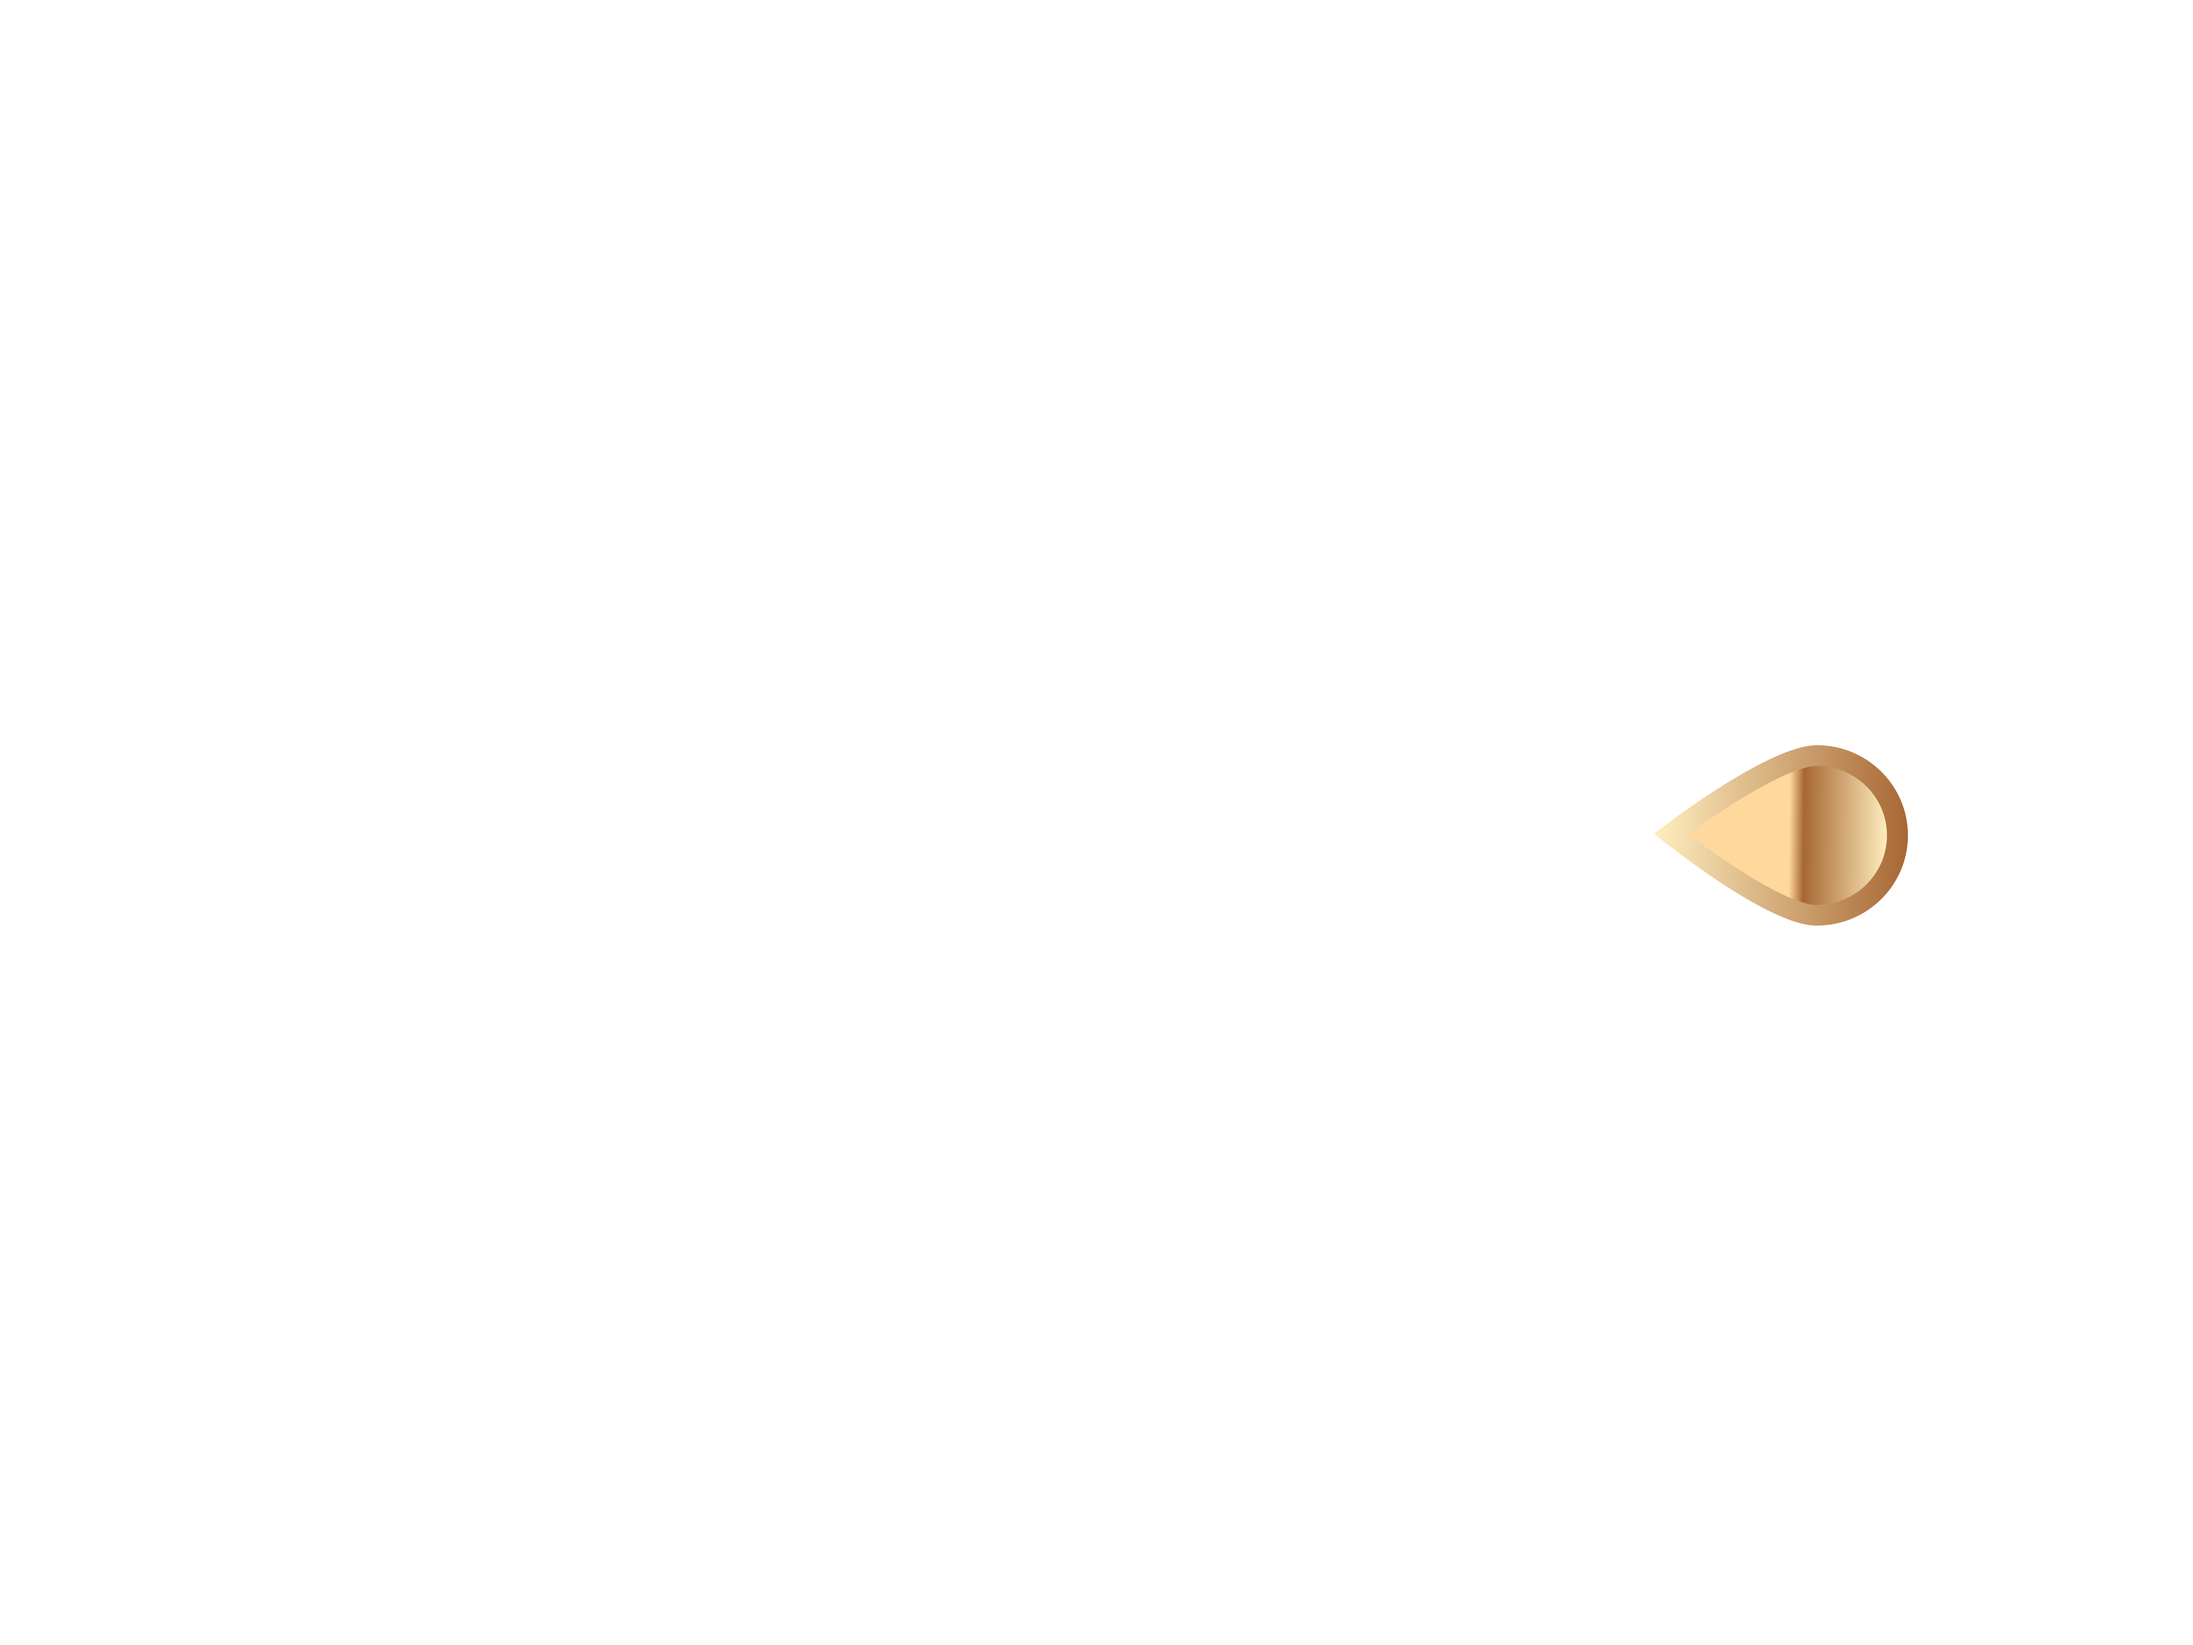
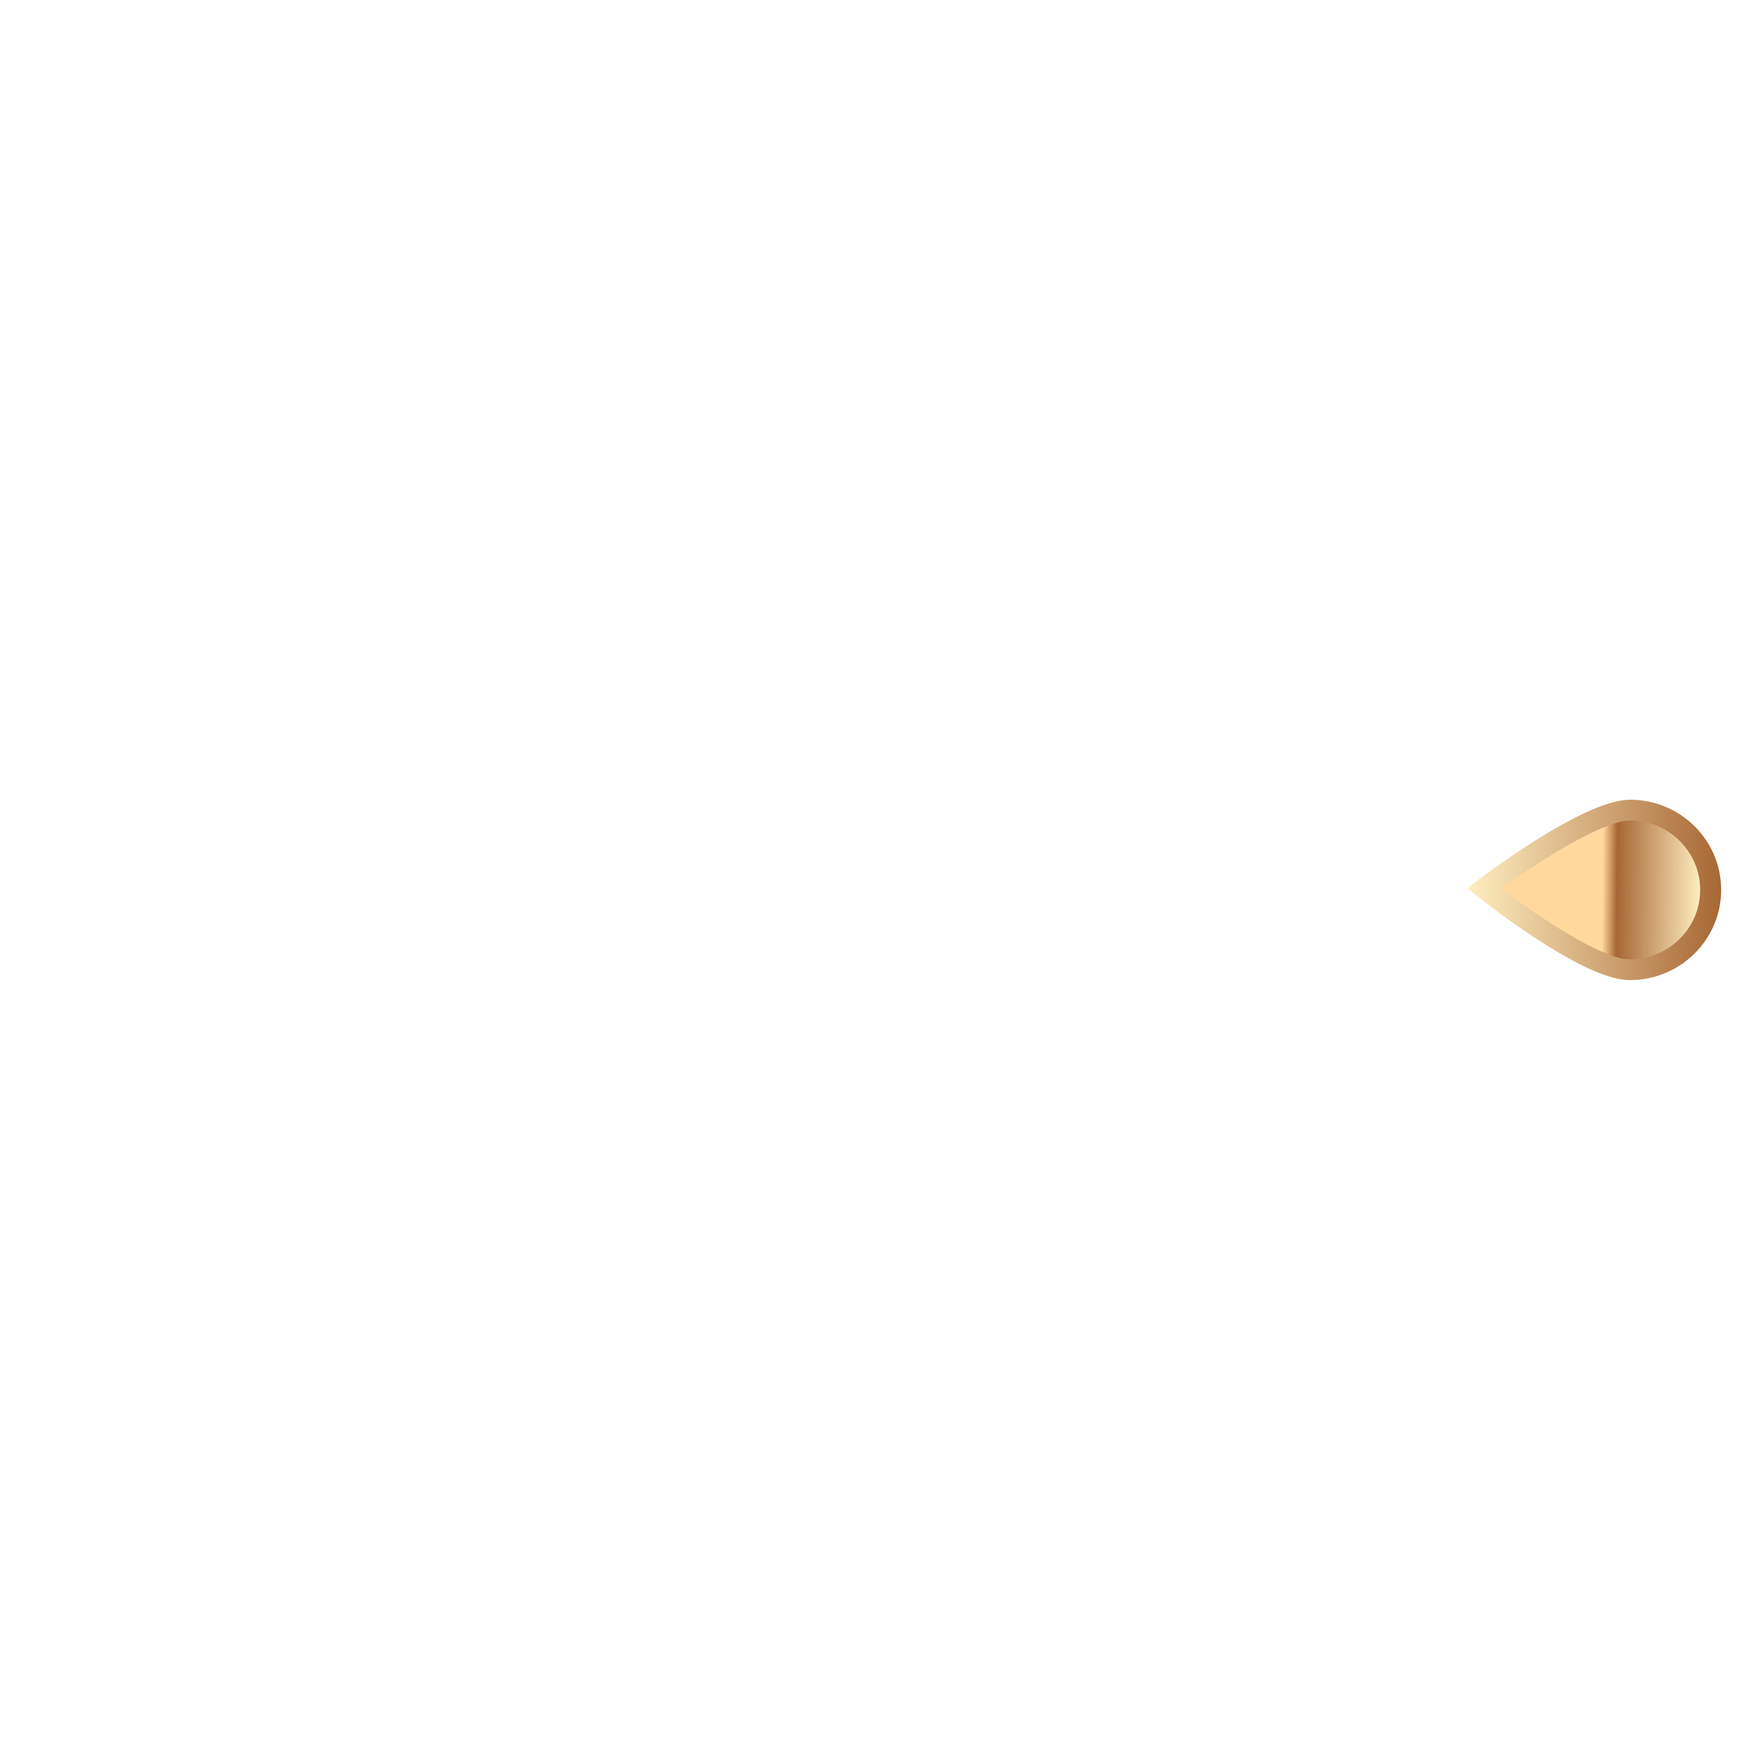
redesign and randomize wheel function

Changed region(s): [[0.75, 0.434, 1.0, 0.589]]

diff --git a/main.js b/main.js
@@ -2,10 +2,72 @@ const wheel = document.querySelector(".wheel");
 const button = document.querySelector(".button");
 let deg = 0;
 
+const rewards = {
+  1: {
+    name: "Iznenaduvanje",
+    start: 0,
+    end: 18,
+  },
+  2: {
+    name: "Termos",
+    start: 21,
+    end: 63,
+  },
+  3: {
+    name: "Drzac za gel",
+    start: 66,
+    end: 108,
+  },
+  4: {
+    name: "Torba",
+    start: 111,
+    end: 153,
+  },
+  5: {
+    name: "Termos",
+    start: 156,
+    end: 198,
+  },
+  6: {
+    name: "Iznenaduvanje",
+    start: 201,
+    end: 243,
+  },
+  7: {
+    name: "Torba",
+    start: 246,
+    end: 288,
+  },
+  8: {
+    name: "Drzac za gel",
+    start: 291,
+    end: 333,
+  },
+  9: {
+    name: "Iznenaduvanje",
+    start: 336,
+    end: 360,
+  },
+};
+
 button.addEventListener("click", () => {
   button.style.pointerEvents = "none";
-  deg = Math.floor(3600 + Math.random() * 360);
-  wheel.style.transition = "all 10s ease-out";
+  let rewardNumber = randomReward({
+    1: 0.04,
+    2: 0.15,
+    3: 0.08,
+    4: 0.15,
+    5: 0.15,
+    6: 0.08,
+    7: 0.15,
+    8: 0.08,
+    9: 0.08,
+    10: 0.04,
+  });
+  let reward = rewards[rewardNumber];
+  let rewardRange = reward.end - reward.start;
+  deg = Math.floor(3600 + reward.start + Math.random() * rewardRange);
+  wheel.style.transition = "all 7s ease-out";
   wheel.style.transform = `rotate(${deg}deg)`;
   wheel.classList.add("blur-animation");
 });
@@ -16,3 +78,13 @@ wheel.addEventListener("transitionend", () => {
   wheel.style.transform = `rotate(${deg % 360}deg)`;
   button.style.pointerEvents = "auto";
 });
+
+function randomReward(rewards) {
+  let i,
+    sum = 0,
+    r = Math.random();
+  for (i in rewards) {
+    sum += rewards[i];
+    if (r <= sum) return i;
+  }
+}

diff --git a/index.html b/index.html
@@ -17,14 +17,34 @@
 
   <body>
     <div class="container">
+      <div class="row justify-content-center justify-content-lg-start">
+        <div class="col-10 col-sm-8 col-md-6 col-lg-4 col-xl-2 offset-xl-1">
+          <img src="./logo.png" class="logo" />
+        </div>
+      </div>
       <div class="row justify-content-center">
         <div
-          class="col-sm-12 col-md-10 col-lg-8 col-xl-7 d-flex justify-content-center wheel-container"
+          class="col-12 col-sm-10 col-md-8 col-lg-6 d-flex justify-content-center"
         >
-          <img src="./logo.png" class="wheel-background-element" />
-          <img src="./wheel.png" class="wheel" />
-          <img src="./arrow.png" class="wheel-background-element" />
-          <img src="./button.png" class="wheel-background-element button" />
+          <div
+            class="wheel-container position-relative d-flex justify-content-center"
+          >
+            <img
+              src="./wheel.png"
+              class="position-relative wheel wheel-element"
+            />
+            <img
+              src="./arrow.png"
+              class="position-absolute top-50 start-50 translate-middle wheel-element"
+            />
+          </div>
+        </div>
+      </div>
+      <div class="row">
+        <div
+          class="col-8 offset-2 col-sm-6 offset-sm-3 col-md-4 offset-md-4 col-lg-3 offset-lg-8 col-xl-2 offset-xl-9"
+        >
+          <img src="./button.png" class="button" />
         </div>
       </div>
     </div>

diff --git a/style.css b/style.css
@@ -2,25 +2,35 @@ body {
   background-color: whitesmoke;
 }
 
-.wheel-container {
-  position: relative;
-}
-
-.wheel {
-  position: absolute;
-  top: 15px;
-  width: 70%;
-  height: auto;
-}
-
-.wheel-background-element {
-  position: absolute;
-  top: 0;
+.logo {
   width: 100%;
   height: auto;
 }
 
+.wheel-container {
+  margin: -50px 0px -30px 0px;
+}
+
+@media (min-width: 992px) {
+  .wheel-container {
+    margin: -100px 0px -70px 0px;
+  }
+}
+
+.wheel-element {
+  width: 100%;
+  height: auto;
+}
+
+@media (min-width: 768px) {
+  .wheel-element {
+    width: 90%;
+  }
+}
+
 .button {
+  width: 100%;
+  height: auto;
   cursor: pointer;
 }
 
@@ -29,23 +39,17 @@ body {
 }
 
 .blur-animation {
-  animation: blur 10s;
+  animation: blur 7s;
 }
 
 @keyframes blur {
   0% {
     filter: blur(1px);
   }
-  25% {
-    filter: blur(0.75px);
-  }
   50% {
     filter: blur(0.5px);
   }
   75% {
-    filter: blur(0.25px);
-  }
-  100% {
-    filter: blur(0px);
+    filter: blur(0);
   }
 }
